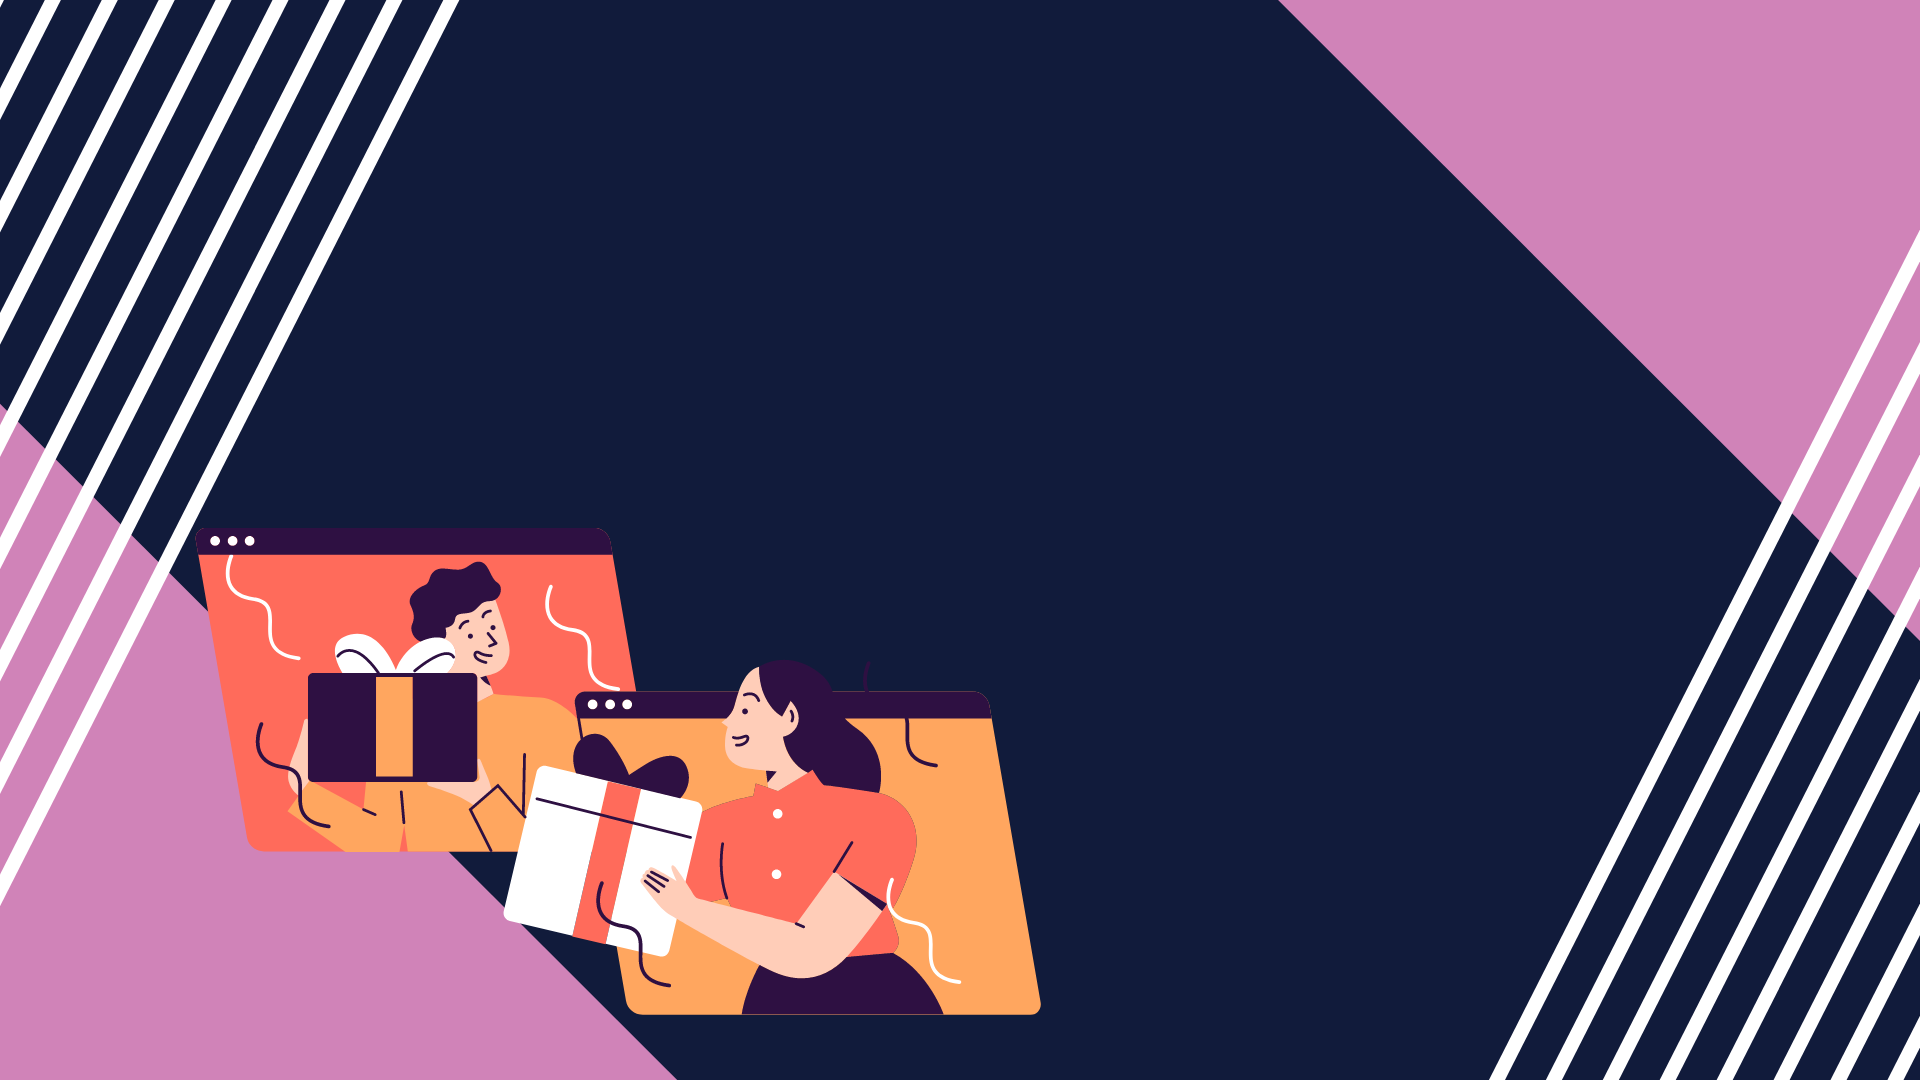
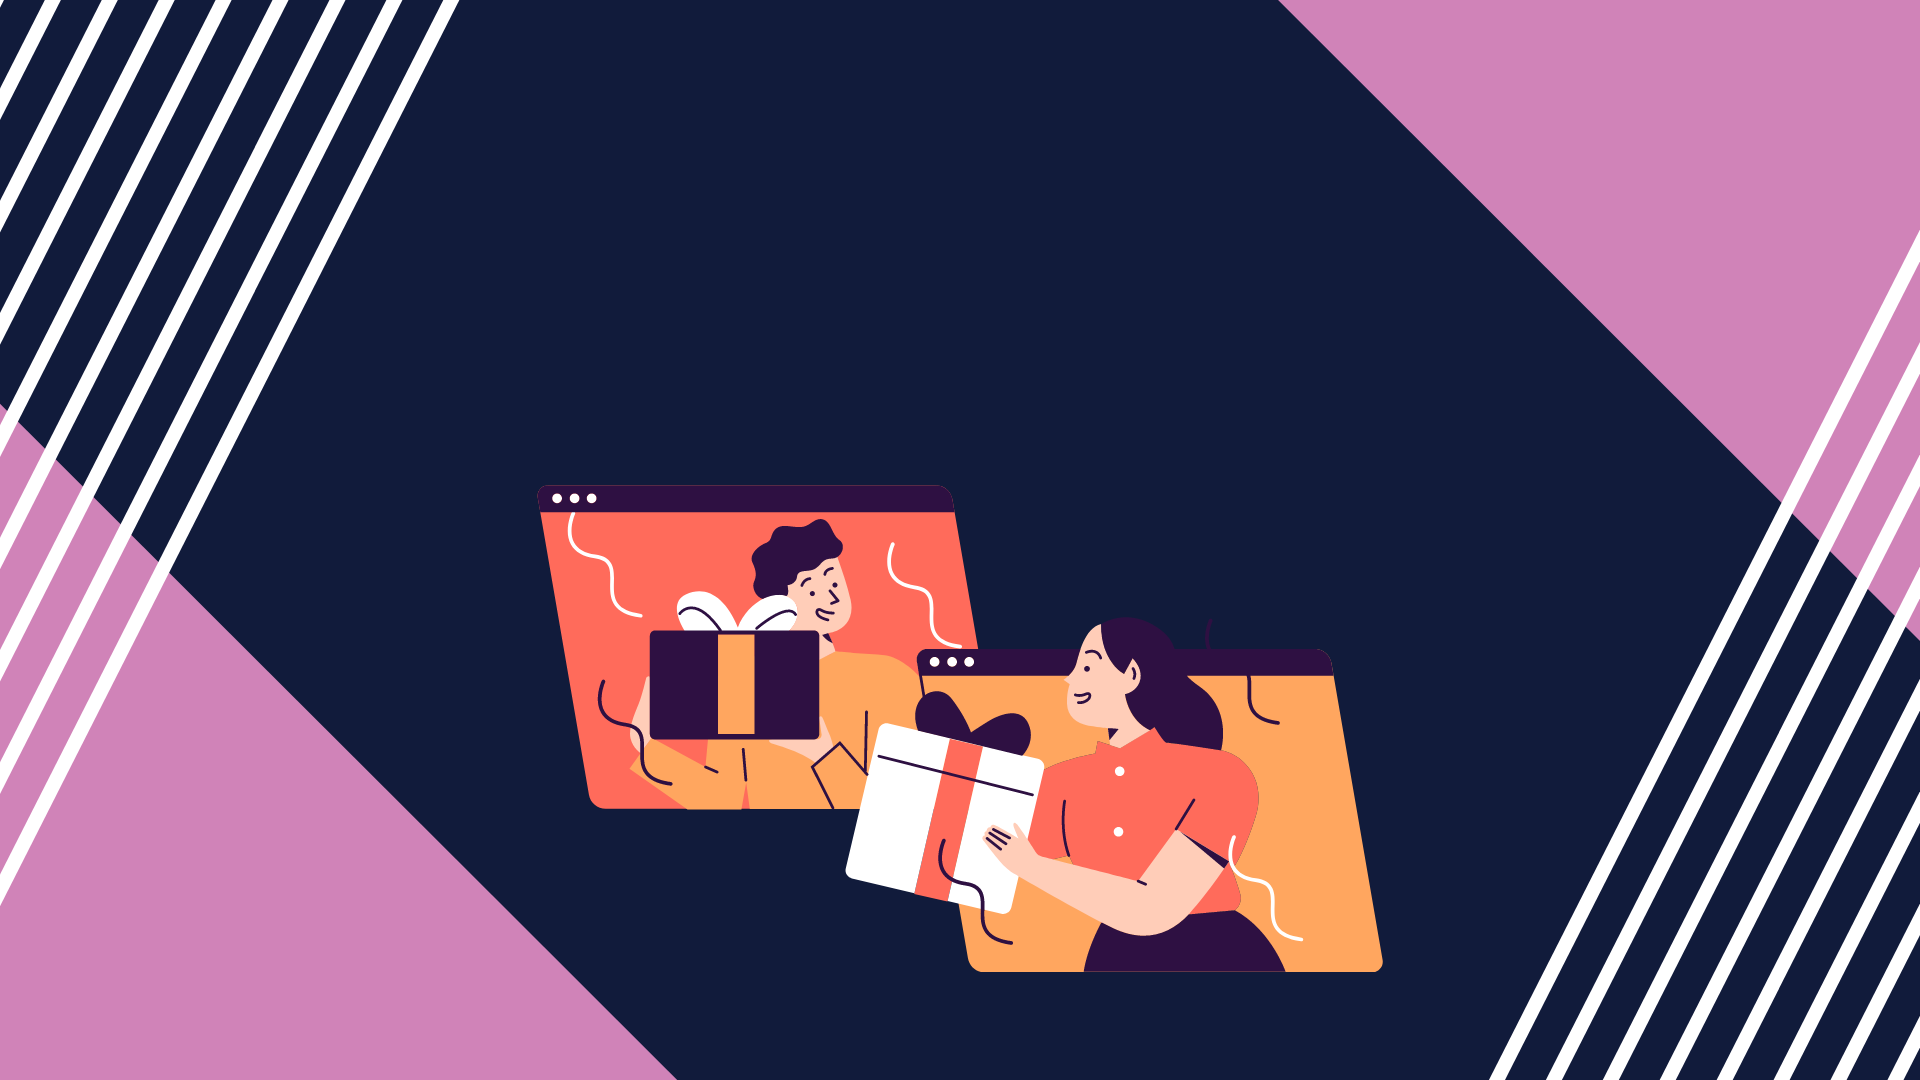
mobile, tablet version complete

Changed region(s): [[0.0938, 0.4278, 0.7188, 0.9472]]

diff --git a/app/assets/stylesheets/components/_cards.scss b/app/assets/stylesheets/components/_cards.scss
@@ -9,6 +9,7 @@
   box-shadow: 3px 6px 10px rgba(0,0,0,0.1);
   width: 200px;
   padding: 20px;
+  margin-right: 20px;
   h3 a {
     color: #000;
   }
@@ -28,6 +29,7 @@
 
 .puzzle-card {
   background-image: linear-gradient(rgba(0,0,0,0.2),rgba(0,0,0,0.6)), asset-url('puzzle.jpg');
+  margin-right: 20px;
 }
 
 .book-card {
@@ -122,13 +124,5 @@
       margin: 10px auto;
     }
   }
-}
-
-@media screen and (min-width: 576px) {
-
-}
-
-@media screen and (min-width: 1200px) {
-
 }
 

diff --git a/app/assets/stylesheets/components/_banner.scss b/app/assets/stylesheets/components/_banner.scss
@@ -2,26 +2,15 @@
   background-size: cover;
   background-position: center;
   height: 500px;
-  padding: 200px 0;
+  padding: 80px 0;
   h1 {
     color: #fff;
     font-weight: bold;
   }
 }
+
 @media screen and (max-width: 575px) {
-  #map {
-    display: none;
-  }
-}
-
-@media screen and (min-width: 576px) {
-  #map {
-    display: none;
-  }
-}
-
-@media screen and (min-width: 1200px) {
-  #map {
-    display: block;
+  .banner {
+    padding: 40px 0;
   }
 }
